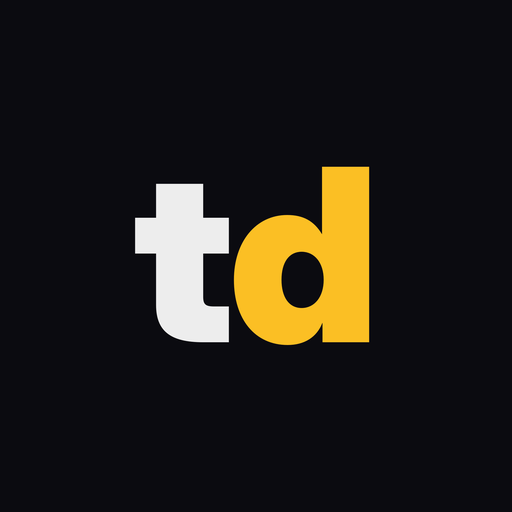
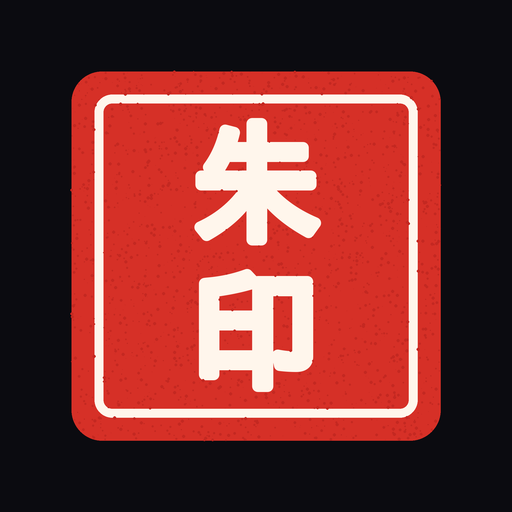
Rename the app from Trackd to Shuin
Shuin (朱印) are the red seal stamps collected at Japanese shrines,
matching the app's collect-your-stamps idea. "Trackd" was too close to
the existing Trakt.

- Wordmark: a small vermilion 朱 seal next to "shuin".
- App icons (home screen, favicon, Apple, maskable): a red seal with
  朱印 stacked vertically, drawn from IPA Gothic with a worn-ink texture.
- Page title, web app manifest, iOS web-app title, install banner,
  sign-up and password-reset copy, share title, MangaDex User-Agent,
  package name, README and status doc.
- Install-banner storage keys and events renamed (so the banner shows
  once more for people who dismissed it).

The GitHub repository and the Vercel address keep the old name for now.

Claude-Session: https://claude.ai/code/session_01862m3UGhfT3vf9TuL9UUXu

diff --git a/src/components/InstallPrompt.tsx b/src/components/InstallPrompt.tsx
@@ -2,14 +2,14 @@
 
 import { useEffect, useState } from "react";
 
-// Shown on phones that haven't installed Trackd to the home screen yet,
+// Shown on phones that haven't installed Shuin to the home screen yet,
 // with the steps for their browser. Dismissing hides it for 30 days; the
 // account page can bring it back with showInstallPrompt().
 
 type Platform = "ios" | "android" | "in-app";
 
-const DISMISS_KEY = "trackd-install-dismissed";
-const SHOW_EVENT = "trackd:show-install";
+const DISMISS_KEY = "shuin-install-dismissed";
+const SHOW_EVENT = "shuin:show-install";
 const HIDE_DAYS = 30;
 
 // Chrome's install prompt event (not in TypeScript's DOM types).
@@ -17,7 +17,7 @@ type InstallEvent = Event & { prompt: () => Promise<void> };
 
 // Chrome can announce installability before React has rendered, so catch
 // the event as soon as this module loads and hand it over later.
-const INSTALLABLE_EVENT = "trackd:installable";
+const INSTALLABLE_EVENT = "shuin:installable";
 let deferredInstall: InstallEvent | null = null;
 if (typeof window !== "undefined") {
   window.addEventListener("beforeinstallprompt", (e) => {
@@ -143,7 +143,7 @@ export default function InstallPrompt() {
   return (
     <div
       role="dialog"
-      aria-label="Install Trackd"
+      aria-label="Install Shuin"
       className="fixed inset-x-3 bottom-[calc(4.75rem+env(safe-area-inset-bottom))] z-30 mx-auto max-w-md rounded-2xl border border-amber-400/30 bg-[#17171f] p-4 shadow-2xl shadow-black"
     >
       <button onClick={dismiss} aria-label="Not now" className="absolute right-3 top-2 p-1 text-lg text-white/40 hover:text-white">
@@ -153,7 +153,7 @@ export default function InstallPrompt() {
         {/* eslint-disable-next-line @next/next/no-img-element */}
         <img src="/icon-192.png" alt="" className="h-12 w-12 shrink-0 rounded-xl" />
         <div className="min-w-0 pr-5">
-          <p className="font-bold">Get the Trackd app</p>
+          <p className="font-bold">Get the Shuin app</p>
           <p className="text-xs text-white/50">Full screen, on your home screen. Free, no app store.</p>
         </div>
       </div>

diff --git a/src/components/Nav.tsx b/src/components/Nav.tsx
@@ -70,7 +70,11 @@ export default function Nav() {
       <header className="sticky top-0 z-10 border-b border-white/10 bg-background/80 pt-[env(safe-area-inset-top)] backdrop-blur">
         <div className="mx-auto flex max-w-5xl items-center justify-between px-4 py-3">
           <Link href="/" className="text-xl font-black tracking-tight">
-            track<span className="text-amber-400">d</span>
+            {/* A tiny vermilion seal, like the stamps the app is named after. */}
+            <span className="mr-1.5 inline-flex h-6 w-6 -translate-y-0.5 items-center justify-center rounded-[5px] bg-[#d63027] text-[13px] font-black leading-none text-[#fff6ec] ring-1 ring-inset ring-[#fff6ec]/40">
+              朱
+            </span>
+            shuin
           </Link>
           <nav className="hidden gap-1 sm:flex">
             <WithPathname Links={TopLinks} />

diff --git a/src/lib/details.ts b/src/lib/details.ts
@@ -16,7 +16,7 @@ export type Length = {
 // Latest chapter number for an ongoing manga, from MangaDex (which links its
 // entries to AniList ids). Null if MangaDex doesn't have it.
 async function mangaDexLatestChapter(aniListId: string, titles: string[]) {
-  const headers = { "User-Agent": "Trackd/1.0 (https://trackd-two-wheat.vercel.app)" };
+  const headers = { "User-Agent": "Shuin/1.0 (https://trackd-two-wheat.vercel.app)" };
   for (const title of titles) {
     const params = new URLSearchParams({ title, limit: "10" });
     for (const r of ["safe", "suggestive", "erotica"]) params.append("contentRating[]", r);

diff --git a/src/app/forgot-password/page.tsx b/src/app/forgot-password/page.tsx
@@ -34,7 +34,7 @@ export default function ForgotPasswordPage() {
     return (
       <AuthCard title="Check your email">
         <Message kind="success">
-          If <strong>{email}</strong> has a Trackd account, we&apos;ve sent it a link to reset your
+          If <strong>{email}</strong> has a Shuin account, we&apos;ve sent it a link to reset your
           password. Open it on this device, in this browser. Check spam if it doesn&apos;t show up.
         </Message>
         <Link href="/login" className="text-center text-amber-400 hover:underline">

diff --git a/src/app/manifest.ts b/src/app/manifest.ts
@@ -1,10 +1,10 @@
 import type { MetadataRoute } from "next";
 
-// Lets people install Trackd to their home screen as an app.
+// Lets people install Shuin to their home screen as an app.
 export default function manifest(): MetadataRoute.Manifest {
   return {
-    name: "Trackd",
-    short_name: "Trackd",
+    name: "Shuin",
+    short_name: "Shuin",
     description: "Collect, rank and compete on the media you consume.",
     start_url: "/",
     display: "standalone",

diff --git a/src/app/layout.tsx b/src/app/layout.tsx
@@ -16,10 +16,10 @@ const geistMono = Geist_Mono({
 });
 
 export const metadata: Metadata = {
-  title: "Trackd",
+  title: "Shuin",
   description: "Collect, rank and compete on the media you consume.",
   // When installed to an iPhone home screen: full screen, dark status bar.
-  appleWebApp: { title: "Trackd", statusBarStyle: "black-translucent" },
+  appleWebApp: { title: "Shuin", statusBarStyle: "black-translucent" },
 };
 
 export const viewport: Viewport = {

diff --git a/src/components/UserProfile.tsx b/src/components/UserProfile.tsx
@@ -82,7 +82,7 @@ export default function UserProfile({ params }: { params: Promise<{ username: st
   async function share() {
     const url = window.location.href;
     try {
-      if (navigator.share) await navigator.share({ title: `@${username} on Trackd`, url });
+      if (navigator.share) await navigator.share({ title: `@${username} on Shuin`, url });
       else {
         await navigator.clipboard.writeText(url);
         setCopied(true);

diff --git a/src/app/signup/page.tsx b/src/app/signup/page.tsx
@@ -77,7 +77,7 @@ export default function SignUpPage() {
   }
 
   return (
-    <AuthCard title="Join Trackd">
+    <AuthCard title="Join Shuin">
       <form onSubmit={handleSubmit} className="flex flex-col gap-4">
         <Field
           label="Username"

diff --git a/README.md b/README.md
@@ -1,5 +1,7 @@
-# Trackd
+# Shuin
 App for ranking and tracking media.
+
+Named after 朱印 (shuin), the red seal stamps collected at Japanese shrines.
 
 Collect anime, manga, movies, TV shows and albums in your Dex, earn XP to rank
 up, and compete with friends.

diff --git a/docs/status.md b/docs/status.md
@@ -1,4 +1,6 @@
-# Trackd status
+# Shuin status
+
+Formerly "Trackd". The code repository and Vercel address still use the old name.
 
 **Live app:** https://trackd-two-wheat.vercel.app
 Every push to `main` goes live on Vercel within about a minute.
